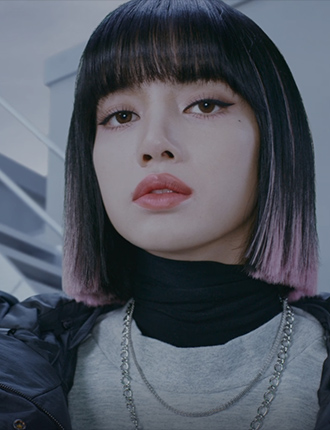
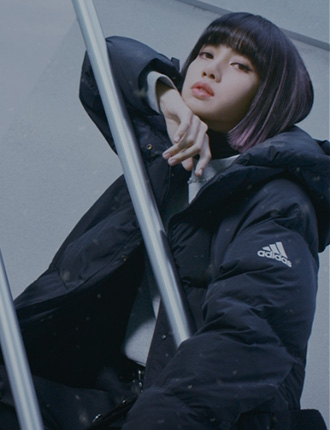
adi_cp 리복윈터 이미지및영상수정

diff --git a/mobile/html/adidas/pn/READYFORWINTER.html b/mobile/html/adidas/pn/READYFORWINTER.html
@@ -34,7 +34,7 @@
                         <section class="video bg02">
                             <div class="video__figure">
                                 <img src="/images/adidas/2020/event/readyforwinter/video01.jpg" alt="비디오이미지01">
-                                <a href="#" onclick="openModalVideoViewer('xizGLzjRDa4')" class="videos-btn">
+                                <a href="#" onclick="openModalVideoViewer('tgpca3Gj1V4')" class="videos-btn">
                                     <img src="/images/adidas/2020/event/readyforwinter/play.png" alt="플레이">
                                 </a>
                             </div>

diff --git a/mobile/html/adidas/2020/event/readyforwinter/build/index.html b/mobile/html/adidas/2020/event/readyforwinter/build/index.html
@@ -63,7 +63,7 @@
 					<section class="video bg02">
 						<div class="video__figure">
 							<img src="/images/adidas/2020/event/readyforwinter/video01.jpg" alt="비디오이미지01">
-							<a href="#" onclick="openModalVideoViewer('xizGLzjRDa4')" class="videos-btn">
+							<a href="#" onclick="openModalVideoViewer('tgpca3Gj1V4')" class="videos-btn">
 								<img src="/images/adidas/2020/event/readyforwinter/play.png" alt="플레이">
 							</a>
 						</div>

diff --git a/mobile/html/adidas/2020/event/readyforwinter/index.html b/mobile/html/adidas/2020/event/readyforwinter/index.html
@@ -61,7 +61,7 @@
 					<section class="video bg02">
 						<div class="video__figure">
 							<img src="/images/adidas/2020/event/readyforwinter/video01.jpg" alt="비디오이미지01">
-							<a href="#" onclick="openModalVideoViewer('xizGLzjRDa4')" class="videos-btn">
+							<a href="#" onclick="openModalVideoViewer('tgpca3Gj1V4')" class="videos-btn">
 								<img src="/images/adidas/2020/event/readyforwinter/play.png" alt="플레이">
 							</a>
 						</div>
